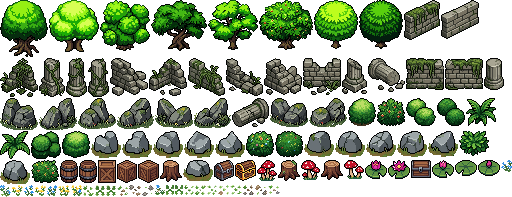
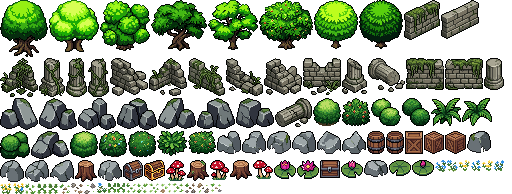
Ground the rocks; remove the ripple spring
- Strip the dirt/grass plate PixelLab painted under each rock so it sits
  on our own grass, with a clean bottom outline.
- New boulder clusters generated with no ground under them.
- Low objects get a contact shadow shaped like their own bottom edge,
  tucked under the base; shorter cast shadows for rocks and props.
- Remove the pixelfx ripples spring from the pond.
- Nothing may sit flush against the top of a picture in front of it.

diff --git a/apps/client/src/world/Ponds.ts b/apps/client/src/world/Ponds.ts
@@ -1,8 +1,5 @@
 import * as Phaser from 'phaser';
-import * as ripplesFx from 'pixelfx/fx/water/ripples';
-import type { FxModule } from 'pixelfx';
 import { makeCanvas, rng } from '../art/pixel';
-import { FxSprite } from '../fx/FxSprite';
 import { COLS, ROWS, T, TILE, vertexAt, waterAt, type MeadowMap } from './meadowMap';
 
 /** How often the water surface is redrawn - with continuous time, 30 fps like pixelfx. */
@@ -242,7 +239,7 @@ interface LilyPad {
  * Living ponds, redrawn live at 30 fps so everything moves smoothly: water
  * coloured by depth - pale near the shore, deep blue in the middle - the bank
  * reflected and swaying, light crests sliding across the surface and foam
- * lapping at the bank; a pixelfx ripple spring in the big pond; lily pads that
+ * lapping at the bank; lily pads that
  * drift on a gentle current, nudge each other apart, turn when they bump and
  * send out rings.
  */
@@ -250,7 +247,6 @@ export class Ponds {
   private readonly surfaces: PondSurface[] = [];
   private readonly lilies: LilyPad[] = [];
   private readonly ripples: Ripple[] = [];
-  private readonly springs: FxSprite[] = [];
   private time = 0;
   private acc = 0;
   private rippleT = 1;
@@ -258,33 +254,11 @@ export class Ponds {
 
   constructor(private readonly scene: Phaser.Scene, private readonly map: MeadowMap, ground: HTMLCanvasElement) {
     const g = ground.getContext('2d', { willReadFrequently: true })!;
-    const boxes = this.findPonds();
-    boxes.forEach((box, i) => {
+    this.findPonds().forEach((box, i) => {
       const src = g.getImageData(box.x, box.y, box.w, box.h).data;
       this.surfaces.push(new PondSurface(scene, `pond${i}`, box, src, this.reflections(box)));
     });
     for (let i = 0; i < 6; i++) this.ripples.push(new Ripple(scene, `ripple${i}`, 14));
-    // a little spring bubbling up in the biggest pond (pixelfx "Ripples")
-    const big = boxes.reduce((a, b) => (b.w * b.h > a.w * a.h ? b : a), boxes[0]);
-    if (big) {
-      const spot = this.openWater(big, 30);
-      if (spot) {
-        const fx = new FxSprite(scene, ripplesFx as unknown as FxModule, spot.x, spot.y, { opts: { seed: 5 } });
-        fx.image.setScale(0.5).setAlpha(0.75).setDepth(1.4);
-        this.springs.push(fx);
-      }
-    }
-  }
-
-  /** A spot at least `margin` px from any bank. */
-  private openWater(box: { x: number; y: number; w: number; h: number }, margin: number) {
-    for (let k = 0; k < 400; k++) {
-      const x = box.x + this.r() * box.w, y = box.y + this.r() * box.h;
-      let ok = true;
-      for (const [dx, dy] of [[margin, 0], [-margin, 0], [0, margin * 0.5], [0, -margin * 0.5], [0, 0]]) if (waterAt(this.map, x + dx, y + dy) < 0.99) ok = false;
-      if (ok) return { x, y };
-    }
-    return null;
   }
 
   /** Bounding boxes (px) of each body of water, from the terrain corners. */
@@ -362,7 +336,6 @@ export class Ponds {
         s.draw(t);
       }
     }
-    for (const f of this.springs) f.update(dt);
     for (const r of this.ripples) r.update(dt);
 
     this.updateLilies(dt, t);

diff --git a/apps/client/src/world/MeadowView.ts b/apps/client/src/world/MeadowView.ts
@@ -37,7 +37,7 @@ export class MeadowView {
     scene.textures.addCanvas('shadows', cast);
     scene.add.image(0, 0, 'shadows').setOrigin(0, 0).setDepth(1).setAlpha(0.26);
     scene.textures.addCanvas('contact', contact);
-    scene.add.image(0, 0, 'contact').setOrigin(0, 0).setDepth(1.1).setAlpha(0.22);
+    scene.add.image(0, 0, 'contact').setOrigin(0, 0).setDepth(1.1).setAlpha(0.3);
     // Light that belongs to the level: shade under the woods, warm sun pooling in the clearings.
     const [shade, sun] = this.bakeLight();
     scene.textures.addCanvas('shade', shade)!.setFilter(Phaser.Textures.FilterMode.LINEAR);
@@ -154,24 +154,33 @@ export class MeadowView {
       }
       return s;
     };
-    const SQUASH: Partial<Record<Placed['kind'], number>> = { tree: 0.34, bush: 0.42, wall: 0.42, pillar: 0.32, rock: 0.48, prop: 0.45, decal: 0.45 };
+    // cast shadows: tall things throw a longer one; low things (rocks, props) barely any
+    const SQUASH: Partial<Record<Placed['kind'], number>> = { tree: 0.34, bush: 0.36, wall: 0.36, pillar: 0.3, rock: 0.28, prop: 0.32, decal: 0.3 };
     cg.fillStyle = '#000000';
     kg.fillStyle = '#000000';
     for (const o of this.map.objects) {
       if (!o.frame || o.kind === 'lily') continue;
+      const s = silhouette(o.frame);
       if (o.shadow) {
-        const s = silhouette(o.frame);
-        const sh = Math.max(3, Math.round(s.height * (SQUASH[o.kind] ?? 0.42)));
+        const sh = Math.max(3, Math.round(s.height * (SQUASH[o.kind] ?? 0.36)));
         const sw = s.width + 2;
-        const dx = Math.round(s.height * 0.07) + 1;
+        const dx = o.kind === 'tree' ? Math.round(s.height * 0.07) + 1 : 1;
         const dy = Math.round(sh * 0.3);
         cg.drawImage(s, Math.round(o.x - sw / 2 + dx), Math.round(o.y - sh + dy), sw, sh);
       }
-      const f = o.foot;
-      if (f) {
-        kg.beginPath();
-        kg.ellipse(f.x + 1, f.y + f.hd * 0.45, f.hw + 1.5, f.hd + 1, 0, 0, Math.PI * 2);
-        kg.fill();
+      // contact shadow: where it touches the ground. For trees, round the trunk; for everything
+      // else its own outline pressed flat and tucked right under its bottom edge, so it sits IN
+      // the grass instead of on a separate patch.
+      if (o.kind === 'tree') {
+        const f = o.foot;
+        if (f) {
+          kg.beginPath();
+          kg.ellipse(f.x + 1, f.y + f.hd * 0.45, f.hw + 2, f.hd + 1, 0, 0, Math.PI * 2);
+          kg.fill();
+        }
+      } else {
+        const ch = Math.max(2, Math.round(s.height * 0.16));
+        kg.drawImage(s, Math.round(o.x - s.width / 2 - 1), Math.round(o.y - ch + 2), s.width + 2, ch);
       }
     }
     // keep them crisp: every pixel either in shadow or not

diff --git a/apps/client/src/world/meadowMap.ts b/apps/client/src/world/meadowMap.ts
@@ -252,7 +252,7 @@ export function buildMeadow(sizeOf: ShapeOf): MeadowMap {
     const myW = sizeOf(frame).w;
     /** Is the base at (bx, by) inside the picture of the thing standing at (fx, fy)? */
     const hides = (fx: number, fy: number, fw: number, fh: number, bx: number, by: number) =>
-      fy > by && Math.abs(bx - fx) < fw * 0.42 && by > fy - fh * 0.92;
+      fy > by && Math.abs(bx - fx) < fw * 0.5 && by > fy - fh - 6;
     return objects.every((o) => {
       if (o.kind === 'lily') return true;
       const os = o.frame ? sizeOf(o.frame) : { w: 8, h: 8 };
@@ -297,7 +297,7 @@ export function buildMeadow(sizeOf: ShapeOf): MeadowMap {
     const pillar = pick(['pillar1', 'pillar4', 'pillar5', 'pillar6']);
     const px = x + sizeOf(wall).w / 2 + sizeOf(pillar).w / 2 + 4, py = y + 8;
     if (r() < 0.8 && fits(pillar, 'pillar', px, py)) add(pillar, 'pillar', px, py);
-    const rock = pick(BOULDERS);
+    const rock = pick(ROCKS);
     const rx = x - sizeOf(wall).w / 2 - 8, ry = y + 12;
     if (r() < 0.6 && fits(rock, 'rock', rx, ry)) add(rock, 'rock', rx, ry);
   }
@@ -332,8 +332,8 @@ export function buildMeadow(sizeOf: ShapeOf): MeadowMap {
     }
   };
   scatter(110, Array.from({ length: 12 }, (_, i) => `bush${i}`), 'bush');
-  scatter(26, ROCKS, 'rock');
-  scatter(12, BOULDERS, 'rock');
+  scatter(30, ROCKS, 'rock');
+  scatter(10, BOULDERS, 'rock');
   scatter(16, ['stump0', 'stump1', 'stump2'], 'prop');
   // mushrooms are walk-through: no footprint
   for (let i = 0, tries = 0; i < 26 && tries < 3000; tries++) {

diff --git a/tools/build_meadow_assets.py b/tools/build_meadow_assets.py
@@ -27,7 +27,7 @@ PICKS = {
     "walls": ("ruin", [0, 2, 3, 4, 10, 11, 12, 13, 14, 16, 20], "wall"),
     "pillars": ("ruin", [5, 7, 17, 19, 21, 22, 24], "pillar"),
     "rocks": ("rock2", [3, 12, 15, 21, 23, 29, 35, 41, 48, 49, 50, 55], "rock"),
-    "boulders": ("boulder", [3, 6, 7, 11, 12, 15, 17, 18], "boulder"),
+    "boulders": ("boulder2", [0, 2, 5, 7, 12, 14, 17, 21], "boulder"),
     "chests": ("props", [16, 17, 22], "chest"),
     "barrels": ("props", [24, 26], "barrel"),
     "crates": ("props", [32, 33, 37], "crate"),
@@ -52,12 +52,54 @@ def copy_from_download(dl):
         shutil.copy(os.path.join(dl, base + ".json"), os.path.join(SRC, "tiles", name + ".json"))
 
 
+def strip_ground(im):
+    """Remove the patch of dirt/grass the generator painted under a rock, so it sits on our own ground.
+
+    In each column, find the lowest pixel of real stone (grey), close the rock with one outline pixel
+    under it, and clear everything below - grass blades, dirt, flowers. Edge columns that are only
+    outline keep their outline. The result is a clean bottom edge that follows the rock's body.
+    """
+    im = im.copy()
+    px = im.load()
+    w, h = im.size
+    OUTLINE = (24, 24, 28, 255)
+
+    def grey(c):
+        r, g, b, a = c
+        hi, lo = max(r, g, b), min(r, g, b)
+        greenish = g > r + 3 and g > b + 1  # mossy grass is grey-green; stone is neutral or blue-grey
+        return a >= 100 and hi >= 40 and hi - lo < 22 and not greenish
+
+    def dark(c):
+        r, g, b, a = c
+        hi, lo = max(r, g, b), min(r, g, b)
+        return a >= 100 and hi < 40 and hi - lo < 14
+
+    for x in range(w):
+        body = max((y for y in range(h) if grey(px[x, y])), default=-1)
+        if body >= 0:
+            if body + 1 < h:
+                px[x, body + 1] = OUTLINE
+            clear_from = body + 2
+        else:
+            edge = max((y for y in range(h) if dark(px[x, y])), default=-1)
+            clear_from = edge + 1
+        for y in range(clear_from, h):
+            px[x, y] = (0, 0, 0, 0)
+    return im
+
+
+GROUNDLESS = {"rocks"}  # boulders were redrawn with no ground under them
+
+
 def pack_props():
     items = []
     for cat in PICKS:
         d = os.path.join(SRC, cat)
         for f in sorted(os.listdir(d)):
             im = Image.open(os.path.join(d, f)).convert("RGBA")
+            if cat in GROUNDLESS:
+                im = strip_ground(im)
             box = im.getbbox()
             if box:
                 items.append((f[:-4], im.crop(box)))

diff --git a/docs/decisions/0003-art-fx-lighting.md b/docs/decisions/0003-art-fx-lighting.md
@@ -12,11 +12,12 @@
   - ต้นไม้, พุ่มไม้, ซากกำแพง/เสา, หิน, หีบ, ถัง, ลัง, เห็ด, ตอไม้, ใบบัว, ดอกไม้/ใบหญ้า — สร้างด้วย Create Image (Pro) แล้วคัดเลือกชิ้นที่ดีที่สุด
   - ไฟล์ต้นฉบับเก็บที่ `assets/world/meadow/` แล้ว `tools/build_meadow_assets.py` จะแพ็กเป็น atlas + ตาราง autotile
 - **เอฟเฟกต์จาก pixelfx** (MIT, ติดตั้งจาก GitHub ล็อกไว้ที่ commit) — `FxSprite` แปลงเอฟเฟกต์เป็น texture ของ Phaser และหยุดคำนวณเมื่ออยู่นอกจอ
-- **เงา**: แดดสูงเยื้องซ้ายบน — เงาคือรูปทรงของวัตถุนั้นเองกดแบนลงพื้นใต้ตัว เลื่อนไปขวาล่างเล็กน้อย (ไม่พลิกภาพ) + เงาสัมผัสพื้นเข้มๆ ที่ฐาน เป็นพิกเซลคม เงาที่ซ้อนกันจะรวมเป็นผืนเดียว
+- **เงา**: แดดสูงเยื้องซ้ายบน — เงาคือรูปทรงของวัตถุนั้นเองกดแบนลงพื้นใต้ตัว เลื่อนไปขวาล่างเล็กน้อย (ไม่พลิกภาพ) + เงาสัมผัสพื้นเข้มๆ ที่ฐาน เป็นพิกเซลคม เงาที่ซ้อนกันจะรวมเป็นผืนเดียว; ของเตี้ย (หิน กล่อง พุ่ม) ใช้เงาสัมผัสพื้นเป็นรูปทรงขอบล่างของตัวเองแนบชิดใต้ฐาน — ไม่ใช่วงรีแยกออกมา
+- **ภาพที่ AI วาดพื้นติดมา**: หินถูกตัดแผ่นดิน/หญ้าใต้ฐานออกด้วย `strip_ground` ใน `tools/build_meadow_assets.py` (ให้นั่งบนพื้นของเราเอง ไม่ลอย); กองหินใหญ่เจนใหม่แบบไม่มีพื้น
 - **แสงผูกกับด่าน ไม่ผูกกับจอ**: light map อบไว้ (ร่มเงาใต้ป่า + แดดอุ่นในลาน + แสงลอดใบไม้), เงาเมฆเลื่อนผ่าน, ประกายบนน้ำ, ละอองในอากาศ, ไฟกระถาง + point light กะพริบ
   - ไม่ใช้ vignette หรือแสงเฉียงที่ติดกับจอ — แสงเฉียง (god rays) เก็บไว้ใช้ในฉากต่อสู้ turn-based
 - **Hitbox**: อ่านจากพิกเซลจริงของภาพ — ฐานวัตถุเป็นสี่เหลี่ยมมุมมน กว้างเท่าส่วนทึบที่ฐานภาพ ลึกเท่าหน้าบนในมุม 3/4 (กล่อง/ถัง/หิน ≈ ครึ่งความสูง, กำแพงเป็นแผ่น, ต้นไม้แค่ลำต้น); เท้าผู้เล่นกว้างเท่าลำตัว (12×6 px); ของที่วางกระจายต้องห่างกันพอเดินผ่านจริง ไม่มีช่องแคบให้แทรกครึ่งตัว
-- **น้ำในบ่อ** (`Ponds.ts`): วาดสดทุกเฟรมที่ 30 fps ด้วยเวลาต่อเนื่อง (แบบเดียวกับ pixelfx) เฉพาะบ่อที่อยู่ในจอ ~1.5 ms/บ่อ — ผิวน้ำวาดเองจากสีตามความลึก + แสงเงากว้างๆ (ไม่ใช้ลาย tile ที่ซ้ำทุก 16px), เงาสะท้อนตลิ่งโยกตามแถว, ประกายคลื่นเลื่อนลื่น, ฟองริมตลิ่ง; น้ำพุเล็กๆ จาก pixelfx `water/ripples`; ใบบัวลอยตามกระแสน้ำ ผลักกันไม่ให้ซ้อน หมุนเมื่อชน ไม่ขึ้นตลิ่ง และส่งวงคลื่นพิกเซลที่ขยายลื่นทุกเฟรม
+- **น้ำในบ่อ** (`Ponds.ts`): วาดสดทุกเฟรมที่ 30 fps ด้วยเวลาต่อเนื่อง (แบบเดียวกับ pixelfx) เฉพาะบ่อที่อยู่ในจอ ~1.5 ms/บ่อ — ผิวน้ำวาดเองจากสีตามความลึก + แสงเงากว้างๆ (ไม่ใช้ลาย tile ที่ซ้ำทุก 16px), เงาสะท้อนตลิ่งโยกตามแถว, ประกายคลื่นเลื่อนลื่น, ฟองริมตลิ่ง; ใบบัวลอยตามกระแสน้ำ ผลักกันไม่ให้ซ้อน หมุนเมื่อชน ไม่ขึ้นตลิ่ง และส่งวงคลื่นพิกเซลที่ขยายลื่นทุกเฟรม
 - **พุ่มไม้เดินทะลุได้** (เหมือนเห็ด/ดอกไม้) — เดินผ่านแล้วพุ่มสั่นและใบไม้ร่วง
 - **การวางวัตถุ**: ห้ามฐานของสิ่งใดอยู่ในภาพของสิ่งที่อยู่ด้านหน้า (ลำต้นทุกต้นต้องมองเห็น) และมีระยะห่างแบบวงรี
 - **การซูม**: วาดที่ความละเอียดจริงของจอ (DPR สูงสุด 2) ซูมเป็นจำนวนเต็ม — เห็นแมพราว 540 px บนจอคอม/iPad, 360 px บนมือถือ
